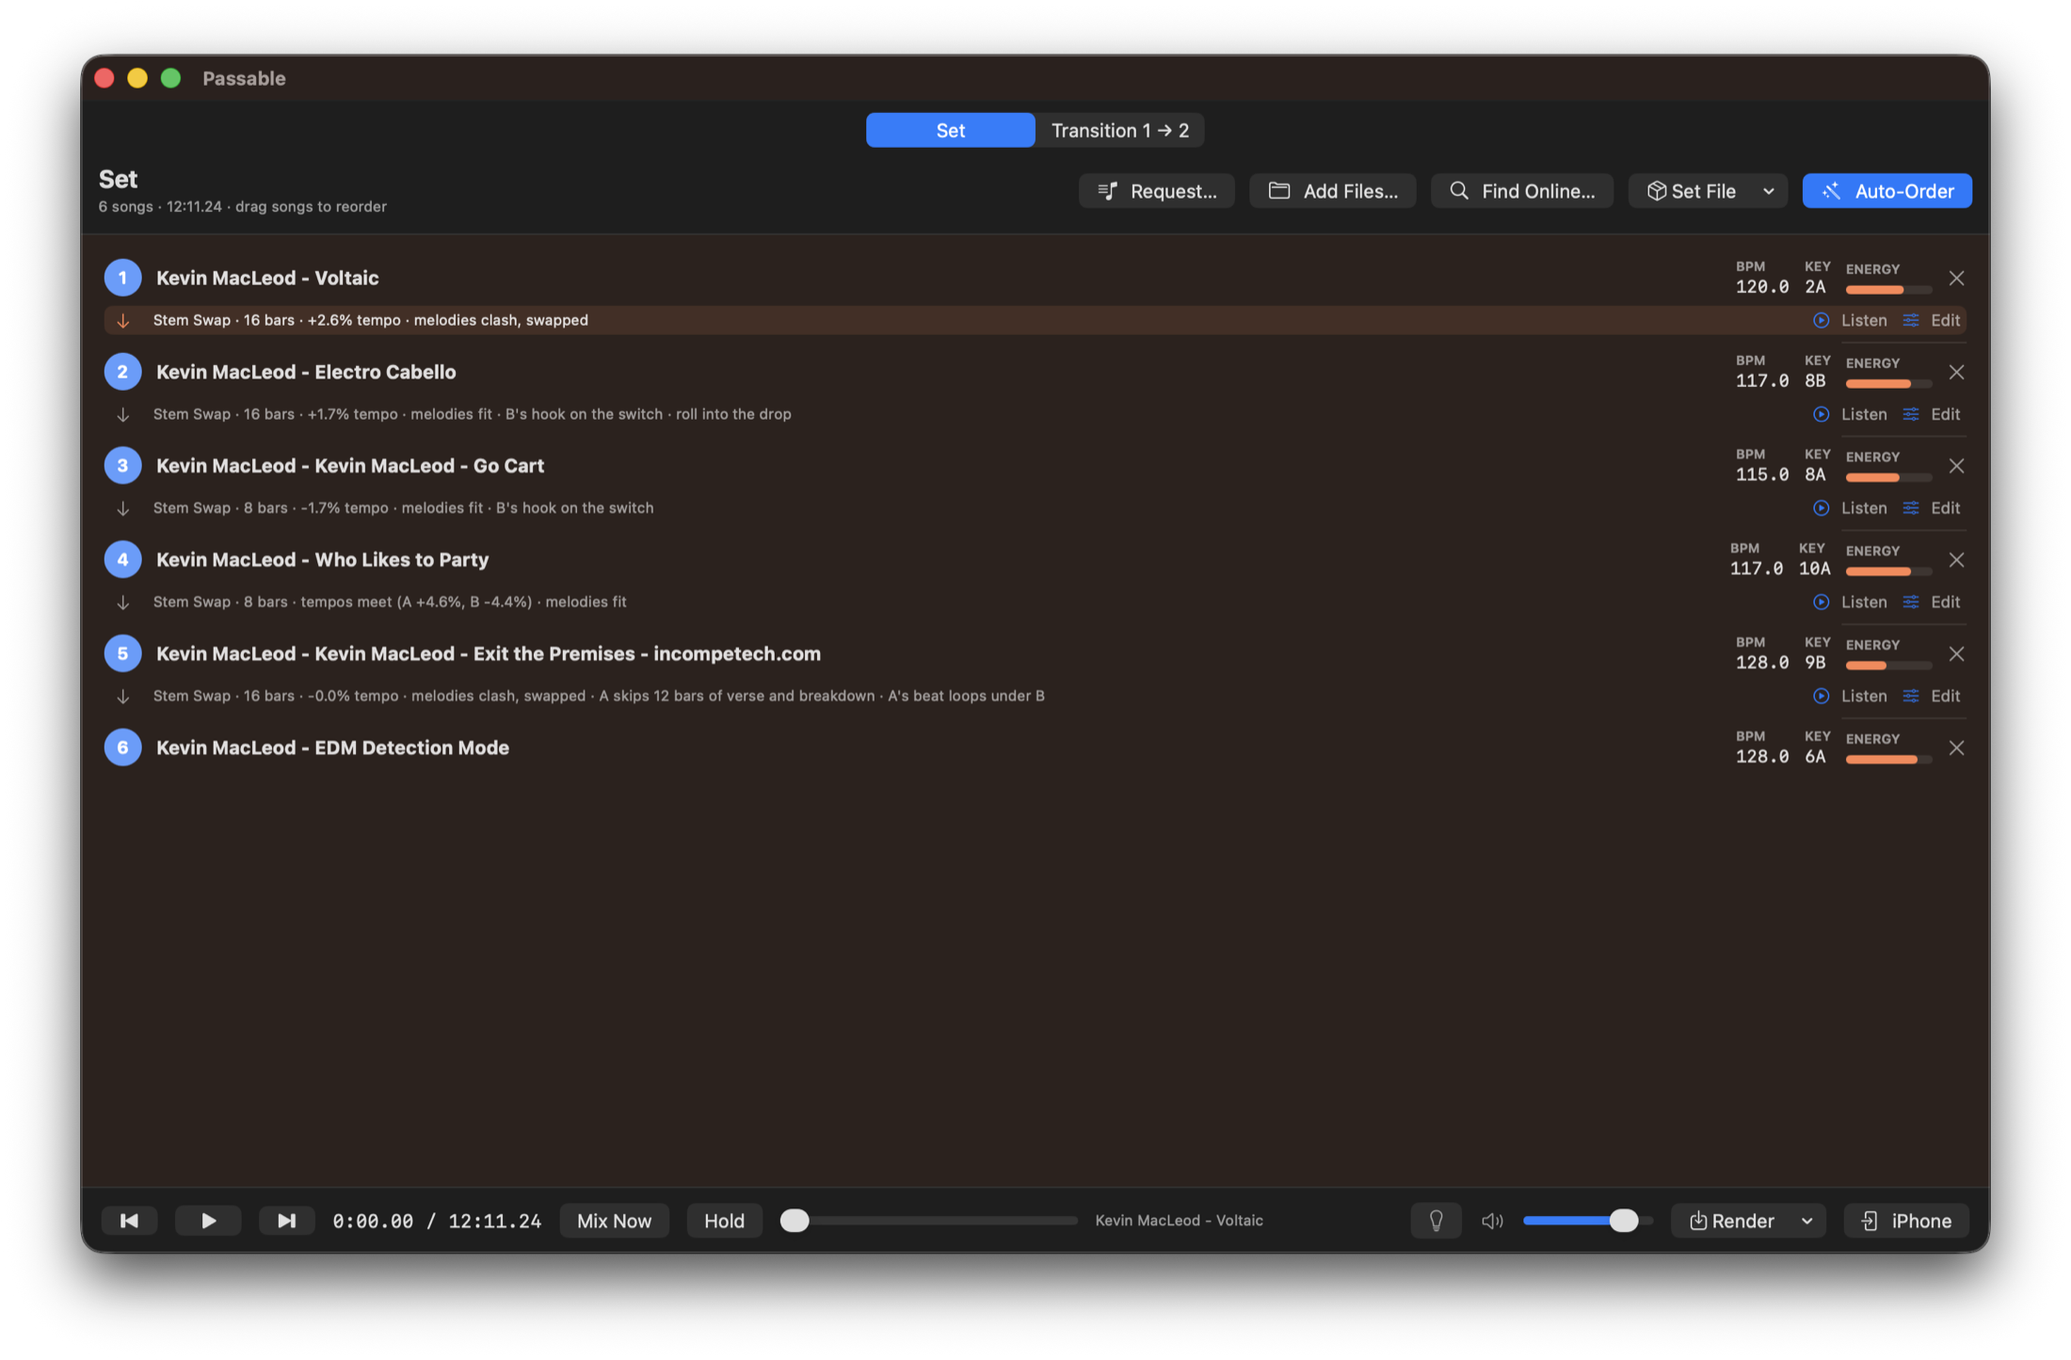
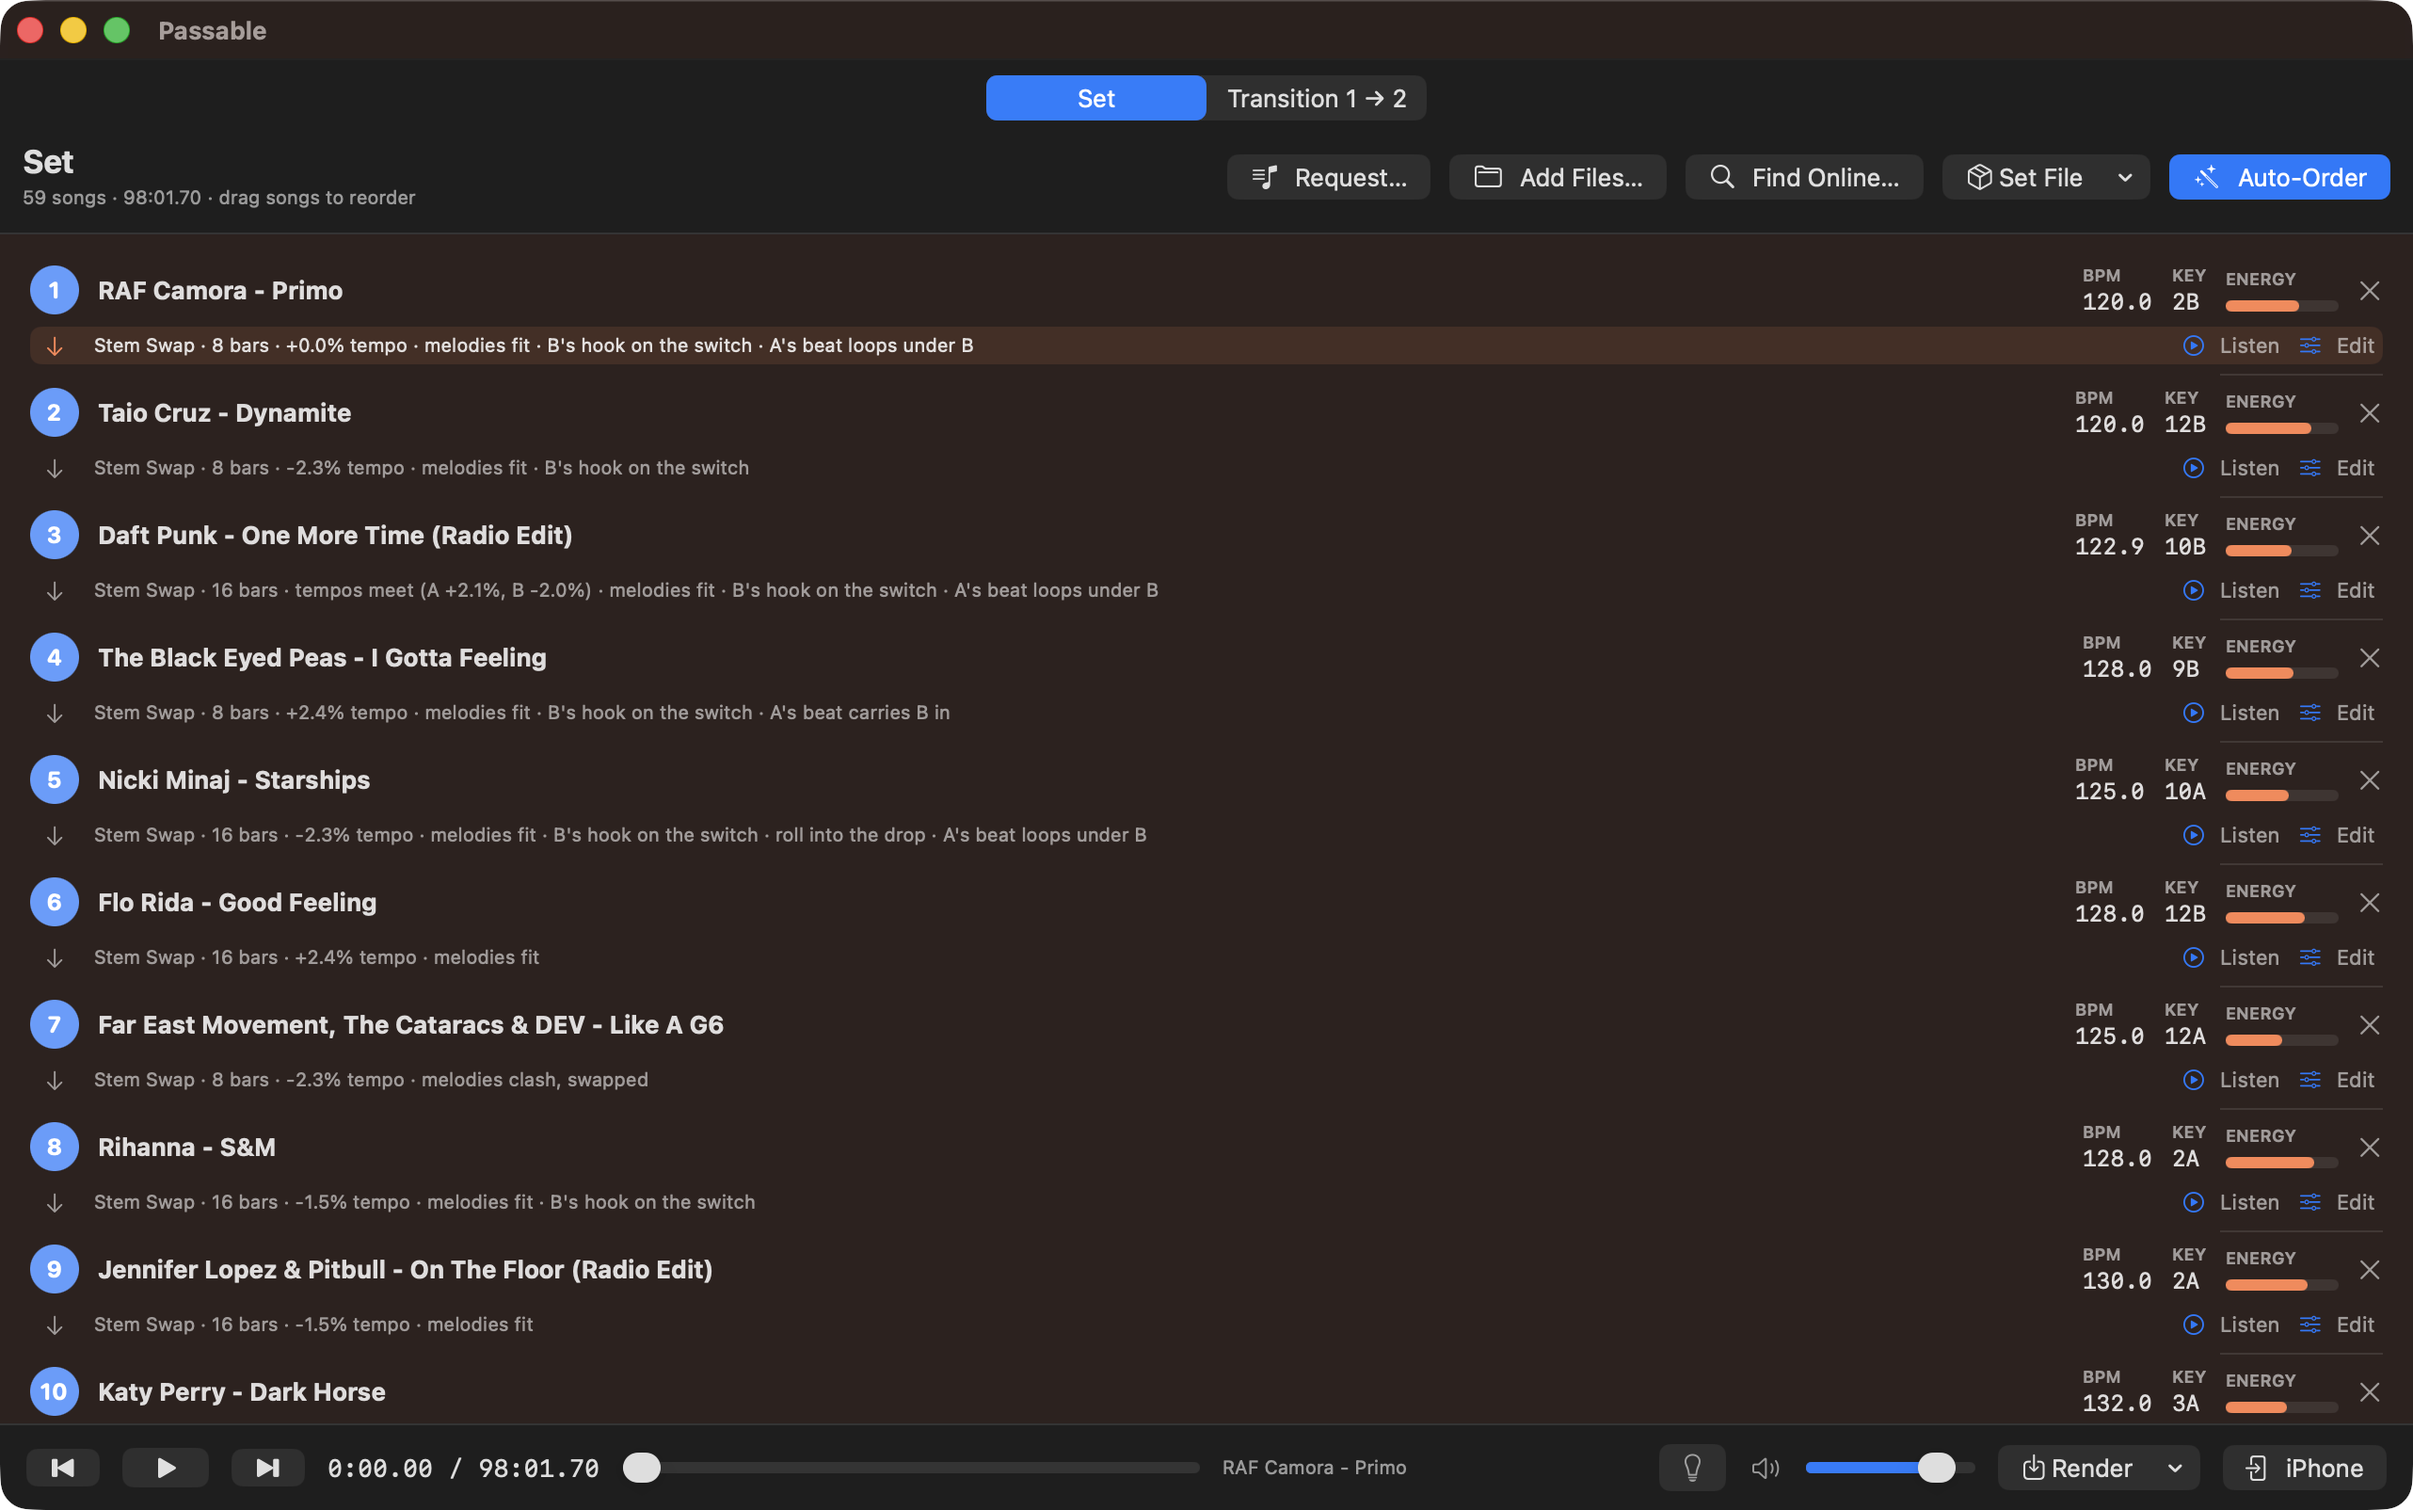
README: screenshots of the current set, the beat bridge and breath exits
New screenshots of a 59-song set and one of its transitions (as planned)
replace the old demo set's. The planning notes now say where A's beat
loops over its own break and where a voice sung straight through leaves
on a breath.

diff --git a/README.md b/README.md
@@ -14,14 +14,14 @@
 </p>
 
 <p align="center">
-  <img src="docs/screenshots/transition.png" alt="Transition editor with eight stem lanes and automation curves" width="900">
+  <img src="docs/screenshots/transition.png" alt="Transition editor: eight stem lanes with their automation, On The Floor into Dark Horse" width="900">
 </p>
 
 <p align="center">
-  <img src="docs/screenshots/set.png" alt="A set of six songs with planned transitions" width="900">
+  <img src="docs/screenshots/set.png" alt="A 59-song set, ordered, with every transition planned" width="900">
 </p>
 
-<p align="center"><sub>Demo set of Kevin MacLeod tracks (incompetech.com, CC BY 4.0). Top: the transition editor. Bottom: an ordered set with every transition planned.</sub></p>
+<p align="center"><sub>Top: one transition of a 59-song set, as planned (Automatic): A's voice leaves at the end of its line and B's takes over, the melodies swap, and the kick and bass change hands on one downbeat. Bottom: the set, ordered, with what each transition does.</sub></p>
 
 ## Highlights
 
@@ -41,8 +41,8 @@ A native macOS app that mixes songs like a DJ, stem by stem. Add songs to a set,
 2. Each song is split into **vocals, melody, drums and bass**, locally through Core ML: HTDemucs v4 for the band, Mel-Band RoFormer for the voice. Passable then finds its tempo, beat 1, key, and bar-by-bar structure and loudness. On macOS 26 it also listens to the words: the vocal stem goes through the system's on-device speech recogniser (in the languages installed on the Mac; English and German are tried), which gets many sung words wrong but not where a line starts and ends or that it comes back. Only those times are kept, not the text. Its times are a sixteenth or so off (now and then a beat), so the vocal stem's own breaths, down to 40 ms, are mapped too: a voice is cut or let in on the breath next to a line's edge, to the millisecond. A song played by a drummer, whose tempo breathes a percent or two from bar to bar, is held to its average tempo: each bar is stretched or squeezed to the same length (the drummer's feel inside it kept), so it is beat-matched like any studio record. One whose bars stray further than 8 % (a tempo that really changes) gets its bars one by one instead of a constant grid.
 3. When all songs are ready, Passable orders them. It minimises tempo stretch, prefers compatible keys, keeps the energy building towards the set's hardest song, and favours pairs whose sections line up. Songs added to a set that already has its order are fitted in where they go best, and the others stay where they are. **Auto-Order** orders everything from scratch; drag rows to override.
 4. Every transition is planned from the two songs alone:
-   - **Where:** B's next section (ideally its chorus or drop) lands as A leaves. Energy stays level, with no chorus into a quiet intro and no breakdown or fade-out inside the blend. Vocals hand over instead of clashing, on the edges of parts: where a voice starts or stops, where the song goes from lines it comes back to (a chorus) to lines it sings once (a verse), and never where a line is sung through the bar. The new voice comes in only where a part of it starts (after a rest, or where its verse turns into its chorus), never on a line in the middle of a verse, even if that means a few bars of the two beats alone; the old one leaves between two sentences, never on a breath in the middle of one.
-   - **How:** the blend fits the music: 8 or 16 bars (never longer than 45 seconds), or a **Drop Swap** (A rides its build, everything flips on B's drop) where B really drops at the switch. Big switches get a build-up (A's beat thins and throws into an echo). Vocals hand over between lines, and two singers meet at one level: the louder is brought down to the quieter for the handover (by up to 8 dB) and eased back to its own level over the next bars, so a new voice never jumps out or drops away; when the keys fit, the grooves lock and A is instrumental, B's vocal can sing over A's beat early in the blend (a mashup). Where A's own bars don't carry a blend (its voice sings on, a breakdown follows, the song is over), **A's beat loops**: from the end of a part its drums, bass line and melody repeat their last full four bars as a bed, its voice leaves on its last word, and B comes in over that. Exactly one kick and one bass line at a time. B enters with its low end killed, and the lows swap on one downbeat, as late as B's drop when B is still building. Clashing keys swap melodies instead of layering them. Where B would hardly be heard under all of A, A's melody makes way early and A's beat carries B's parts in. Tempos more than 10 % apart never share a beat: A plays whole to the end of its phrase, its last beat goes into an echo, and B lands whole on its downbeat at its own tempo (a **Cut**), so no song is ever played far off its own speed. A song whose tempo really changes gets a cut too, or a DJ's bridge (four or eight bars, whichever leaves less of a hole): A's beat leaves first, its melody and vocal float on beatless into a reverb wash, and B drops in whole on its downbeat. The kick and bass change hands only where B has a low end of its own to take them.
+   - **Where:** B's next section (ideally its chorus or drop) lands as A leaves. Energy stays level, with no chorus into a quiet intro and no breakdown or fade-out inside the blend. Vocals hand over instead of clashing, on the edges of parts: where a voice starts or stops, where the song goes from lines it comes back to (a chorus) to lines it sings once (a verse), and never where a line is sung through the bar. The new voice comes in only where a part of it starts (after a rest, or where its verse turns into its chorus), never on a line in the middle of a verse, even if that means a few bars of the two beats alone; the old one leaves between two sentences, never on a breath in the middle of one. A singer who sings straight through where the lines say they end is taken out on the nearest real breath instead of through a word.
+   - **How:** the blend fits the music: 8 or 16 bars (never longer than 45 seconds), or a **Drop Swap** (A rides its build, everything flips on B's drop) where B really drops at the switch. Big switches get a build-up (A's beat thins and throws into an echo). Vocals hand over between lines, and two singers meet at one level: the louder is brought down to the quieter for the handover (by up to 8 dB) and eased back to its own level over the next bars, so a new voice never jumps out or drops away; when the keys fit, the grooves lock and A is instrumental, B's vocal can sing over A's beat early in the blend (a mashup). Where A's own bars don't carry a blend (its voice sings on, a breakdown follows, the song is over), **A's beat loops**: from the end of a part its drums, bass line and melody repeat their last full four bars as a bed, its voice leaves on its last word, and B comes in over that. Where A's own drums drop out inside the blend before B's beat is in, A's last full-beat bars loop over the break, so the floor never loses the beat. Exactly one kick and one bass line at a time. B enters with its low end killed, and the lows swap on one downbeat, as late as B's drop when B is still building. Clashing keys swap melodies instead of layering them. Where B would hardly be heard under all of A, A's melody makes way early and A's beat carries B's parts in. Tempos more than 10 % apart never share a beat: A plays whole to the end of its phrase, its last beat goes into an echo, and B lands whole on its downbeat at its own tempo (a **Cut**), so no song is ever played far off its own speed. A song whose tempo really changes gets a cut too, or a DJ's bridge (four or eight bars, whichever leaves less of a hole): A's beat leaves first, its melody and vocal float on beatless into a reverb wash, and B drops in whole on its downbeat. The kick and bass change hands only where B has a low end of its own to take them.
    - **Levels:** every song's loud sections are matched (trim), so nothing jumps.
    - **Tempo:** a small tempo difference is B's alone: it is matched to A only while they overlap, then glides home and plays untouched. A bigger one (over 3 %) the two share: A glides to a tempo between theirs over its last bars alone, the blend plays there, and B glides home afterwards, so neither song is heard more than 5 % off its own. Glides ride the tempo at about 0.5 % a bar, as a DJ eases the pitch fader, so no one hears a song speed up or slow down. Stretching is sample-exact: a phase-locked vocoder for tonal stems, with the original drum hits copied onto their new positions.
 5. **Listen** plays from four bars before a transition. **Edit** opens it in the Transition tab.
